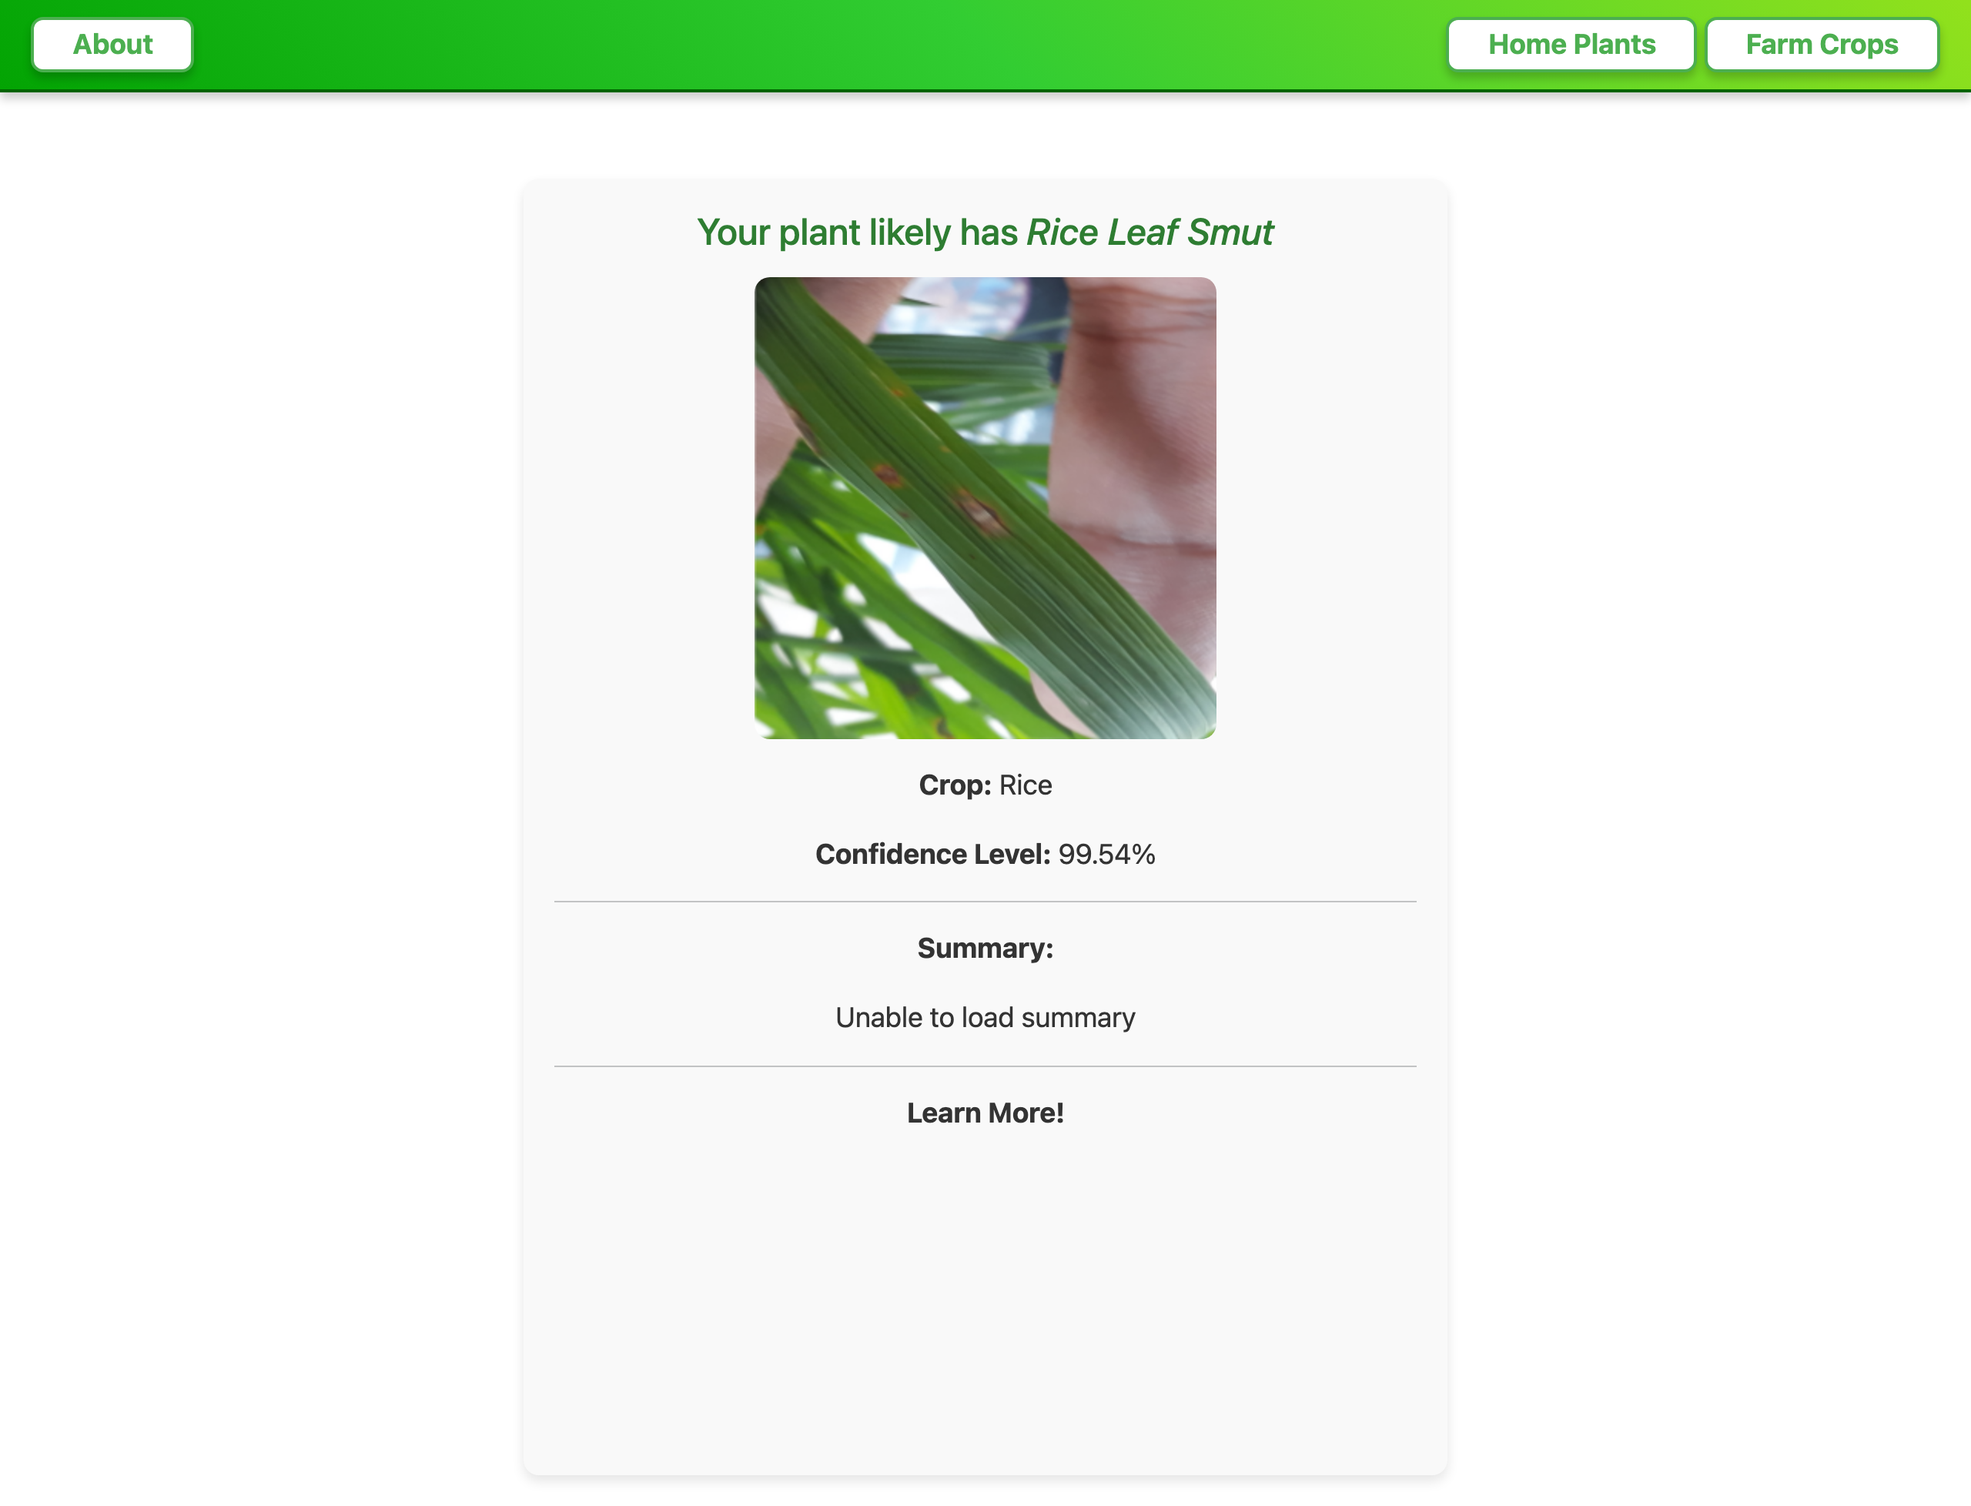
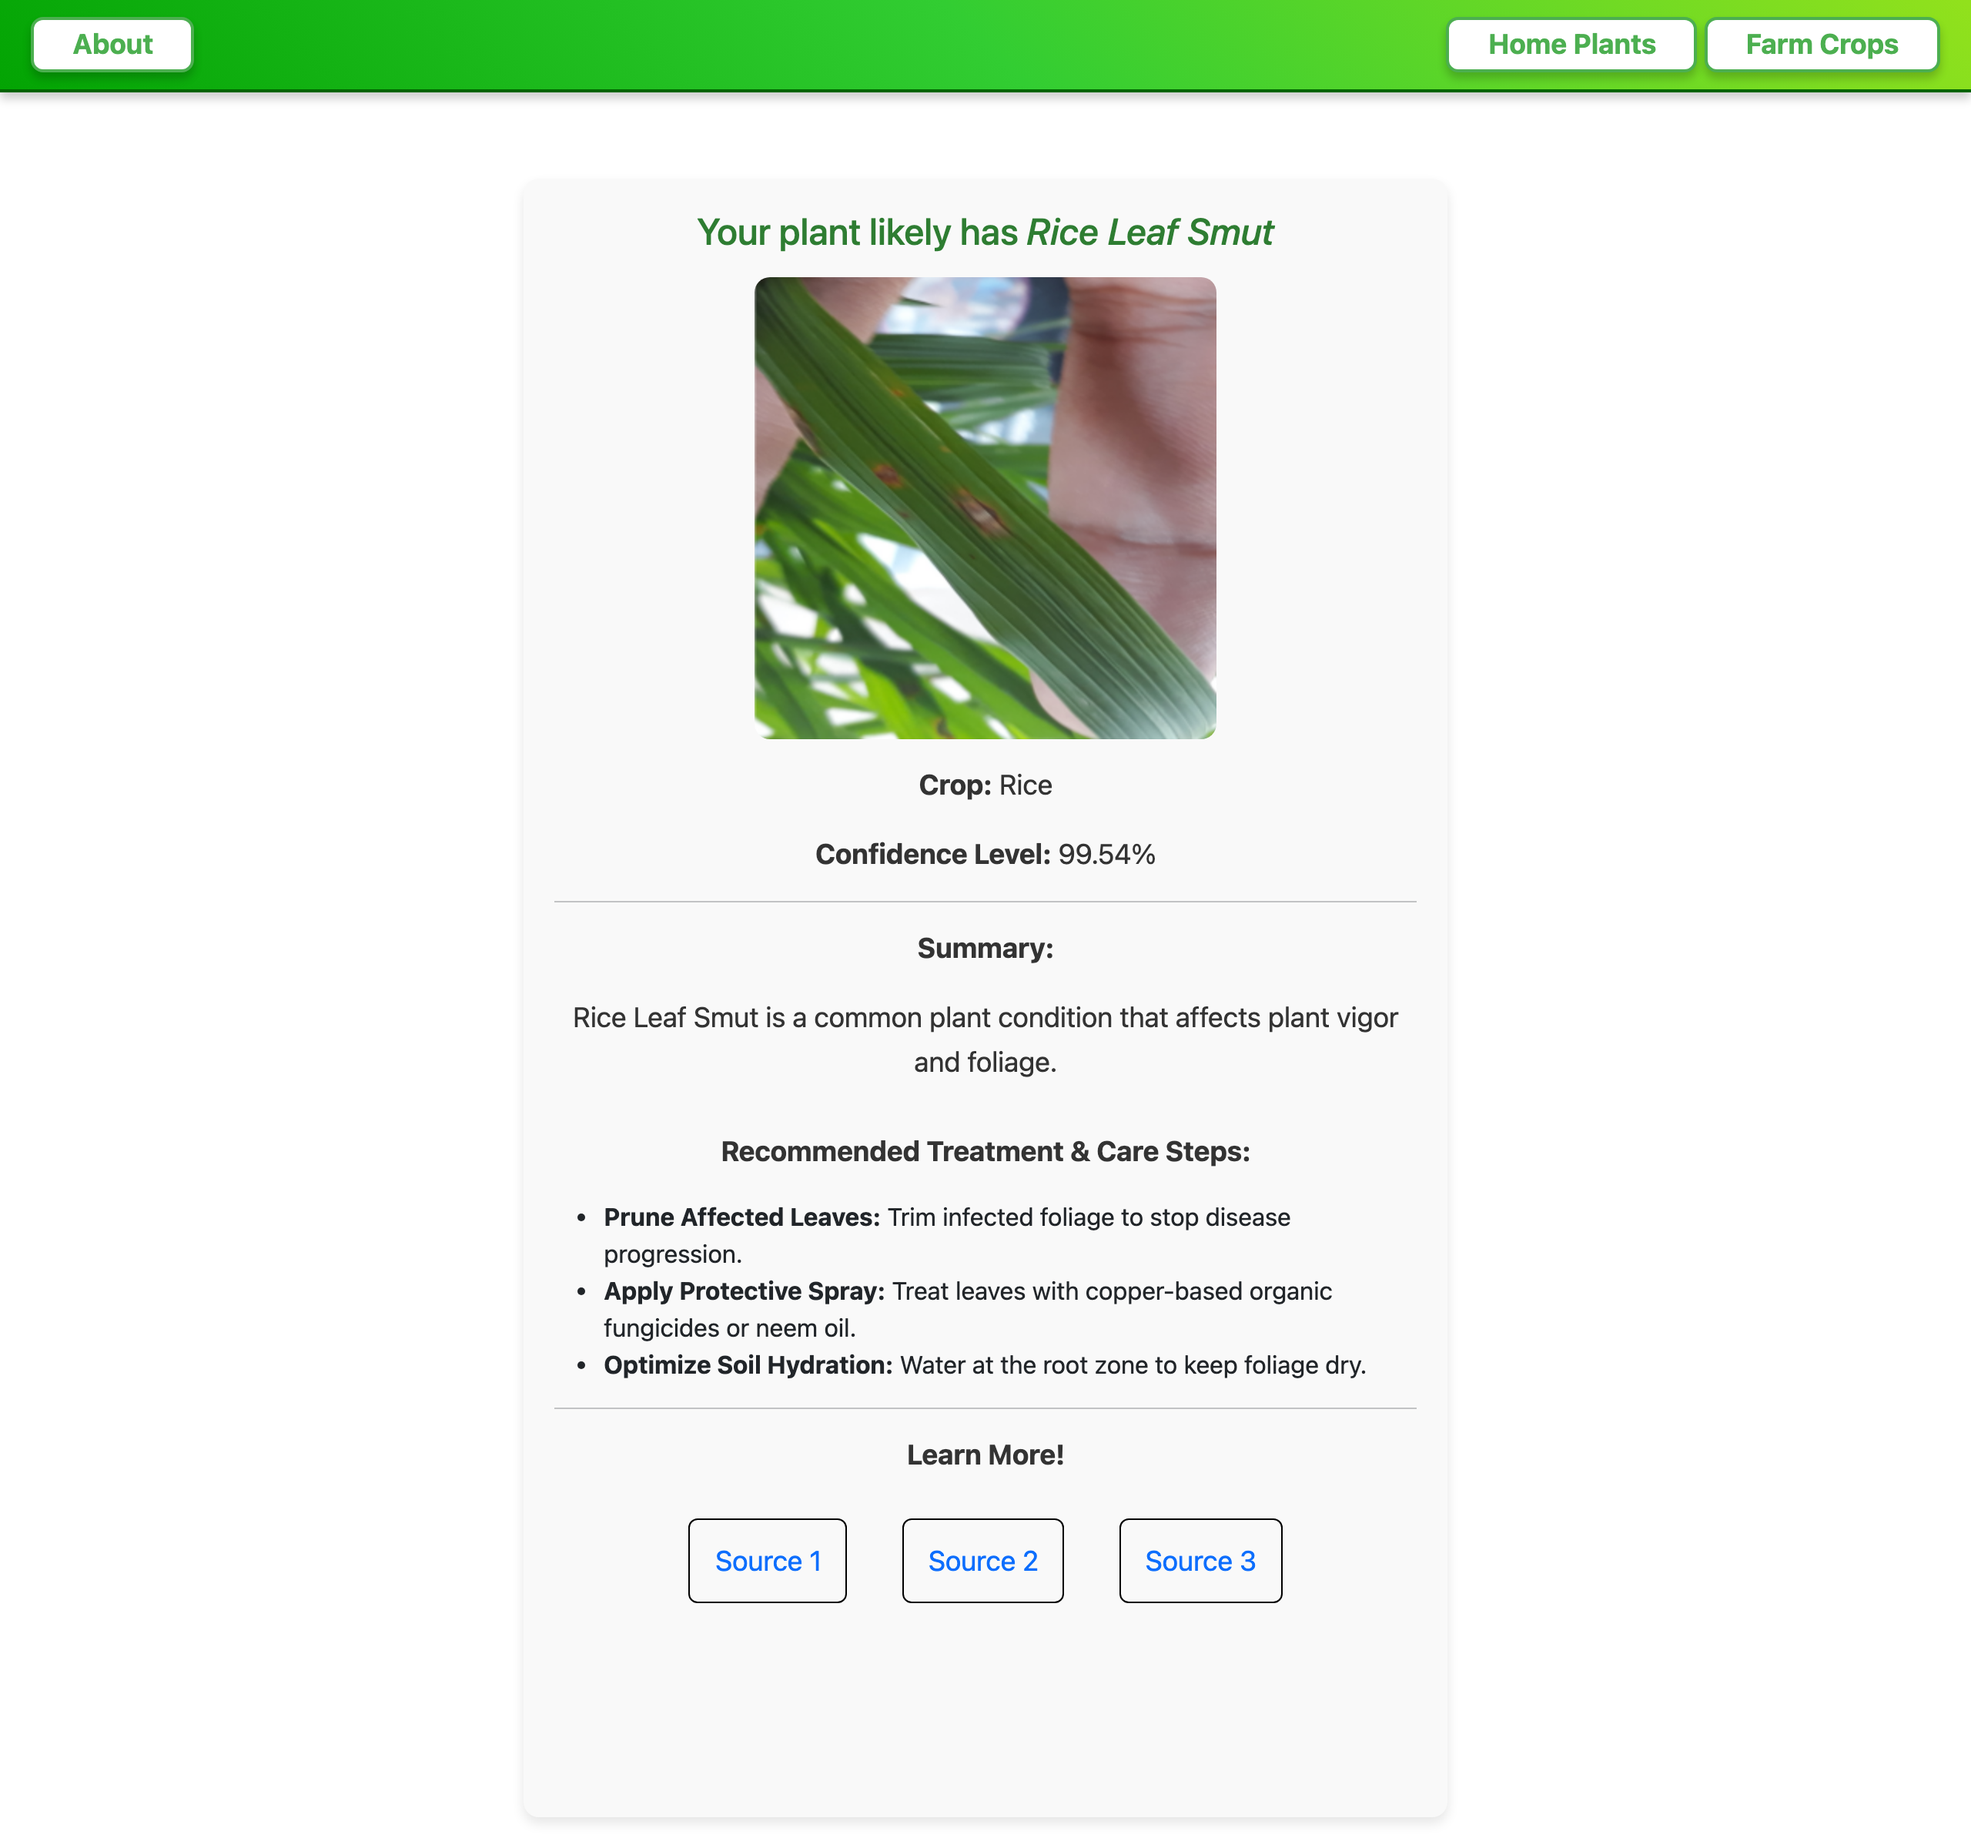
Update Rice Leaf Smut fallback summary and screenshots

diff --git a/app.py b/app.py
@@ -105,7 +105,20 @@ def result():
         summary=session['summary']
     return render_template('result.html', prediction=prediction, img_path=img_path, name=name, website_links=website_links, summary=summary)
 
+FALLBACK_SUMMARIES_LONG = {
+    "Rice Leaf Smut": "Rice Leaf Smut is a fungal infection caused by <i>Entyloma oryzae</i> that creates small, dark linear spots on mature rice leaves. While typically mild, active management ensures maximum grain quality and crop yield.<br><br><b>Recommended Treatment & Care Steps:</b><ul><li><b>Plant Disease-Resistant Varieties:</b> Select certified resistant seed cultivars optimal for your growing zone.</li><li><b>Balanced Nitrogen Fertilizer:</b> Avoid over-fertilization with nitrogen, which promotes lush growth susceptible to fungal spread.</li><li><b>Fungicidal Control:</b> Apply preventive copper-based or triazole fungicides during early tillering if leaf spots appear.</li><li><b>Crop Rotation & Sanitation:</b> Plow under or remove post-harvest crop residue to eliminate overwintering spores.</li></ul>",
+    "Potato Blight - Early": "Early Blight in potatoes is caused by the fungus <i>Alternaria solani</i>, producing dark concentric ring spots on older leaves.<br><br><b>Recommended Treatment & Care Steps:</b><ul><li><b>Fungicide Application:</b> Apply chlorothalonil or copper fungicides at the first sign of leaf spots.</li><li><b>Proper Irrigation:</b> Water at the soil base using drip irrigation to avoid wet foliage.</li><li><b>Crop Destruction:</b> Remove infected foliage before harvest to protect tubers.</li></ul>",
+    "Tomato Leaf Mold": "Tomato Leaf Mold is caused by <i>Passalora fulva</i>, leading to pale green or yellow spots on upper leaf surfaces.<br><br><b>Recommended Treatment & Care Steps:</b><ul><li><b>Improve Ventilation:</b> Increase greenhouse airflow and lower relative humidity below 85%.</li><li><b>Foliar Fungicide:</b> Use protective fungicides containing copper octanoate or difenoconazole.</li><li><b>Pruning:</b> Trim lower infected leaves to enhance air circulation.</li></ul>",
+}
+
+FALLBACK_SUMMARIES_SHORT = {
+    "Rice Leaf Smut": "Rice Leaf Smut is a fungal disease causing small black linear spots on rice leaves, managed effectively with balanced fertilization and resistant varieties.",
+    "Potato Blight - Early": "Early Blight produces target-like concentric spots on potato leaves and can be controlled with crop rotation and protective fungicides.",
+    "Tomato Leaf Mold": "Tomato Leaf Mold causes yellow spots and velvety mold on tomato leaves, favored by high humidity and poor ventilation.",
+}
+
 def createLLMResponse(inp, num):
+    inp = inp.strip()
     if num == 1: #lengthy response about how to cure
         try:
             completion = client.chat.completions.create(
@@ -129,9 +142,11 @@ def createLLMResponse(inp, num):
             
             return completion.choices[0].message.content
         except:
-            return "Unable to load summary"
+            return FALLBACK_SUMMARIES_LONG.get(
+                inp,
+                f"{inp} is a common plant condition that affects plant vigor and foliage.<br><br><b>Recommended Treatment & Care Steps:</b><ul><li><b>Prune Affected Leaves:</b> Trim infected foliage to stop disease progression.</li><li><b>Apply Protective Spray:</b> Treat leaves with copper-based organic fungicides or neem oil.</li><li><b>Optimize Soil Hydration:</b> Water at the root zone to keep foliage dry.</li></ul>"
+            )
     elif num == 0: #short info response
-          
         try:
             completion = client.chat.completions.create(
                 model="meta-llama/llama-4-scout-17b-16e-instruct",
@@ -154,7 +169,10 @@ def createLLMResponse(inp, num):
             
             return completion.choices[0].message.content
         except:
-            return "Unable to load summary"
+            return FALLBACK_SUMMARIES_SHORT.get(
+                inp,
+                f"{inp} is a plant disease that impacts crop foliage and health, manageable through proper crop sanitation and targeted plant care."
+            )
 
 
 def getCredibleSources(query):
@@ -174,9 +192,19 @@ def getCredibleSources(query):
         for result in results:
             links.append(result['link']) # accesses the link
             
+        if not links:
+            links = [
+                "https://extension.psu.edu/plant-disease-identification-and-management",
+                "https://ipm.ucanr.edu/agriculture/plant-health-guide/",
+                "https://edis.ifas.ufl.edu/publication/AG312"
+            ]
         return links
     except Exception:
-        return []
+        return [
+            "https://extension.psu.edu/plant-disease-identification-and-management",
+            "https://ipm.ucanr.edu/agriculture/plant-health-guide/",
+            "https://edis.ifas.ufl.edu/publication/AG312"
+        ]
 
 def predict(path, type):
     
@@ -208,10 +236,7 @@ def predict(path, type):
     # model prediction
     prediction = model.predict(data)
     index = np.argmax(prediction)
-    class_name = class_names[index]
-    confidence_score = prediction[0][index]
-
-    return [class_name[2:], round(float(confidence_score) * 100, 2)] #class and confidence_score
+    return [class_name[2:].strip(), round(float(confidence_score) * 100, 2)] #class and confidence_score
 
 if __name__ == '__main__':
     app.run(debug=True) #runs the app
